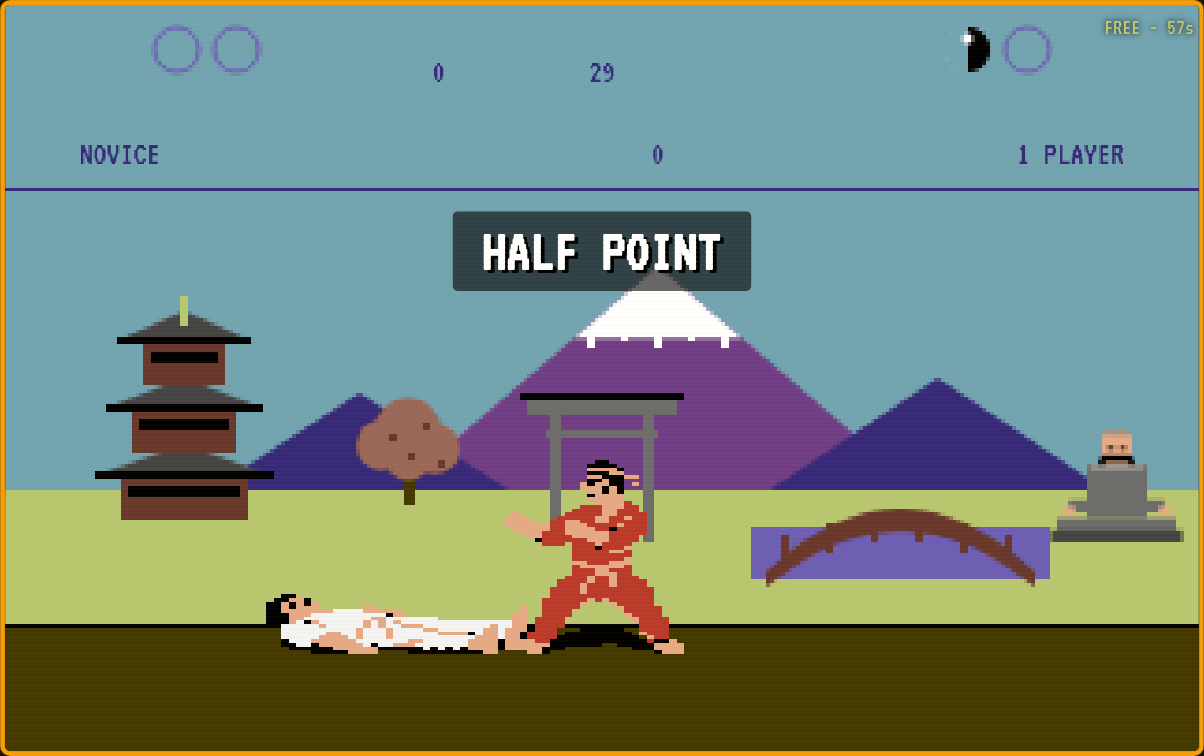
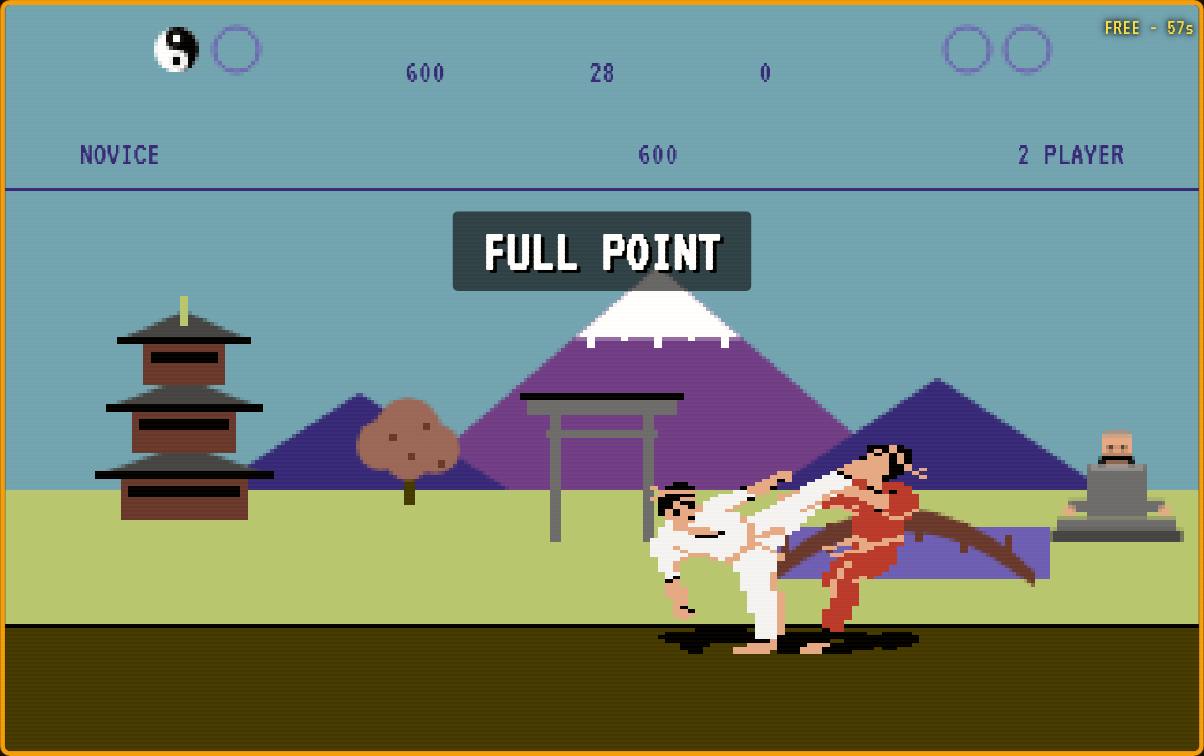
Branding: capture the screenshot in two-player mode and fix social card spacing
Claude-Session: https://claude.ai/code/session_01P6kwiFZQ9vszEdxrfAxA5p

diff --git a/scripts/render-branding.js b/scripts/render-branding.js
@@ -38,13 +38,15 @@ async function main() {
   const executablePath = process.env.BROWSER_PATH || ['/opt/microsoft/msedge/msedge', '/usr/bin/chromium', '/usr/bin/google-chrome'].find((p) => existsSync(p));
   const browser = await chromium.launch(executablePath ? { executablePath } : {});
 
-  // 1. Gameplay screenshot: start a free game and catch a high kick landing
+  // 1. Gameplay screenshot: a two-player free game (the second fighter stands still),
+  //    walk in and catch player one's high kick as it lands
   const game = await browser.newPage({ viewport: { width: 1400, height: 900 } });
   console.log(`[info] opening ${baseUrl}`);
   await game.goto(baseUrl, { waitUntil: 'networkidle' });
+  await game.getByRole('button', { name: /2 PLAYER/i }).click();
   await game.getByRole('button', { name: /TRY FREE/i }).click();
   await game.waitForTimeout(1900); // bow
-  await game.keyboard.down('ArrowRight'); await game.waitForTimeout(900); await game.keyboard.up('ArrowRight');
+  await game.keyboard.down('ArrowRight'); await game.waitForTimeout(1500); await game.keyboard.up('ArrowRight');
   await game.waitForTimeout(150);
   await game.keyboard.down('Space'); await game.keyboard.down('ArrowUp'); await game.keyboard.down('ArrowRight');
   await game.waitForTimeout(230);

diff --git a/docs/branding/social-preview.html b/docs/branding/social-preview.html
@@ -28,12 +28,12 @@
       image-rendering: pixelated;
       transform: rotate(-2deg);
     }
-    .text { position: absolute; left: 56px; top: 64px; width: 480px; }
+    .text { position: absolute; left: 56px; top: 56px; width: 500px; }
     .small { font-size: 40px; letter-spacing: 0.3em; color: #fbbf24; }
-    .big { font-size: 108px; line-height: 0.95; color: #f7931a; text-shadow: 5px 5px 0 #7a1d0e; margin: 8px 0 24px; }
-    .tag { font-size: 44px; color: #fde68a; line-height: 1.2; }
+    .big { font-size: 108px; line-height: 0.95; color: #f7931a; text-shadow: 5px 5px 0 #7a1d0e; margin: 6px 0 18px; }
+    .tag { font-size: 38px; color: #fde68a; line-height: 1.15; }
     .pill {
-      display: inline-block; margin-top: 26px; padding: 6px 22px;
+      display: inline-block; margin-top: 18px; padding: 6px 22px;
       background: #dc2626; color: #fff; font-size: 40px; border-radius: 8px; letter-spacing: 0.05em;
     }
     .foot { position: absolute; left: 56px; bottom: 34px; font-size: 32px; color: #b45309; letter-spacing: 0.1em; }
